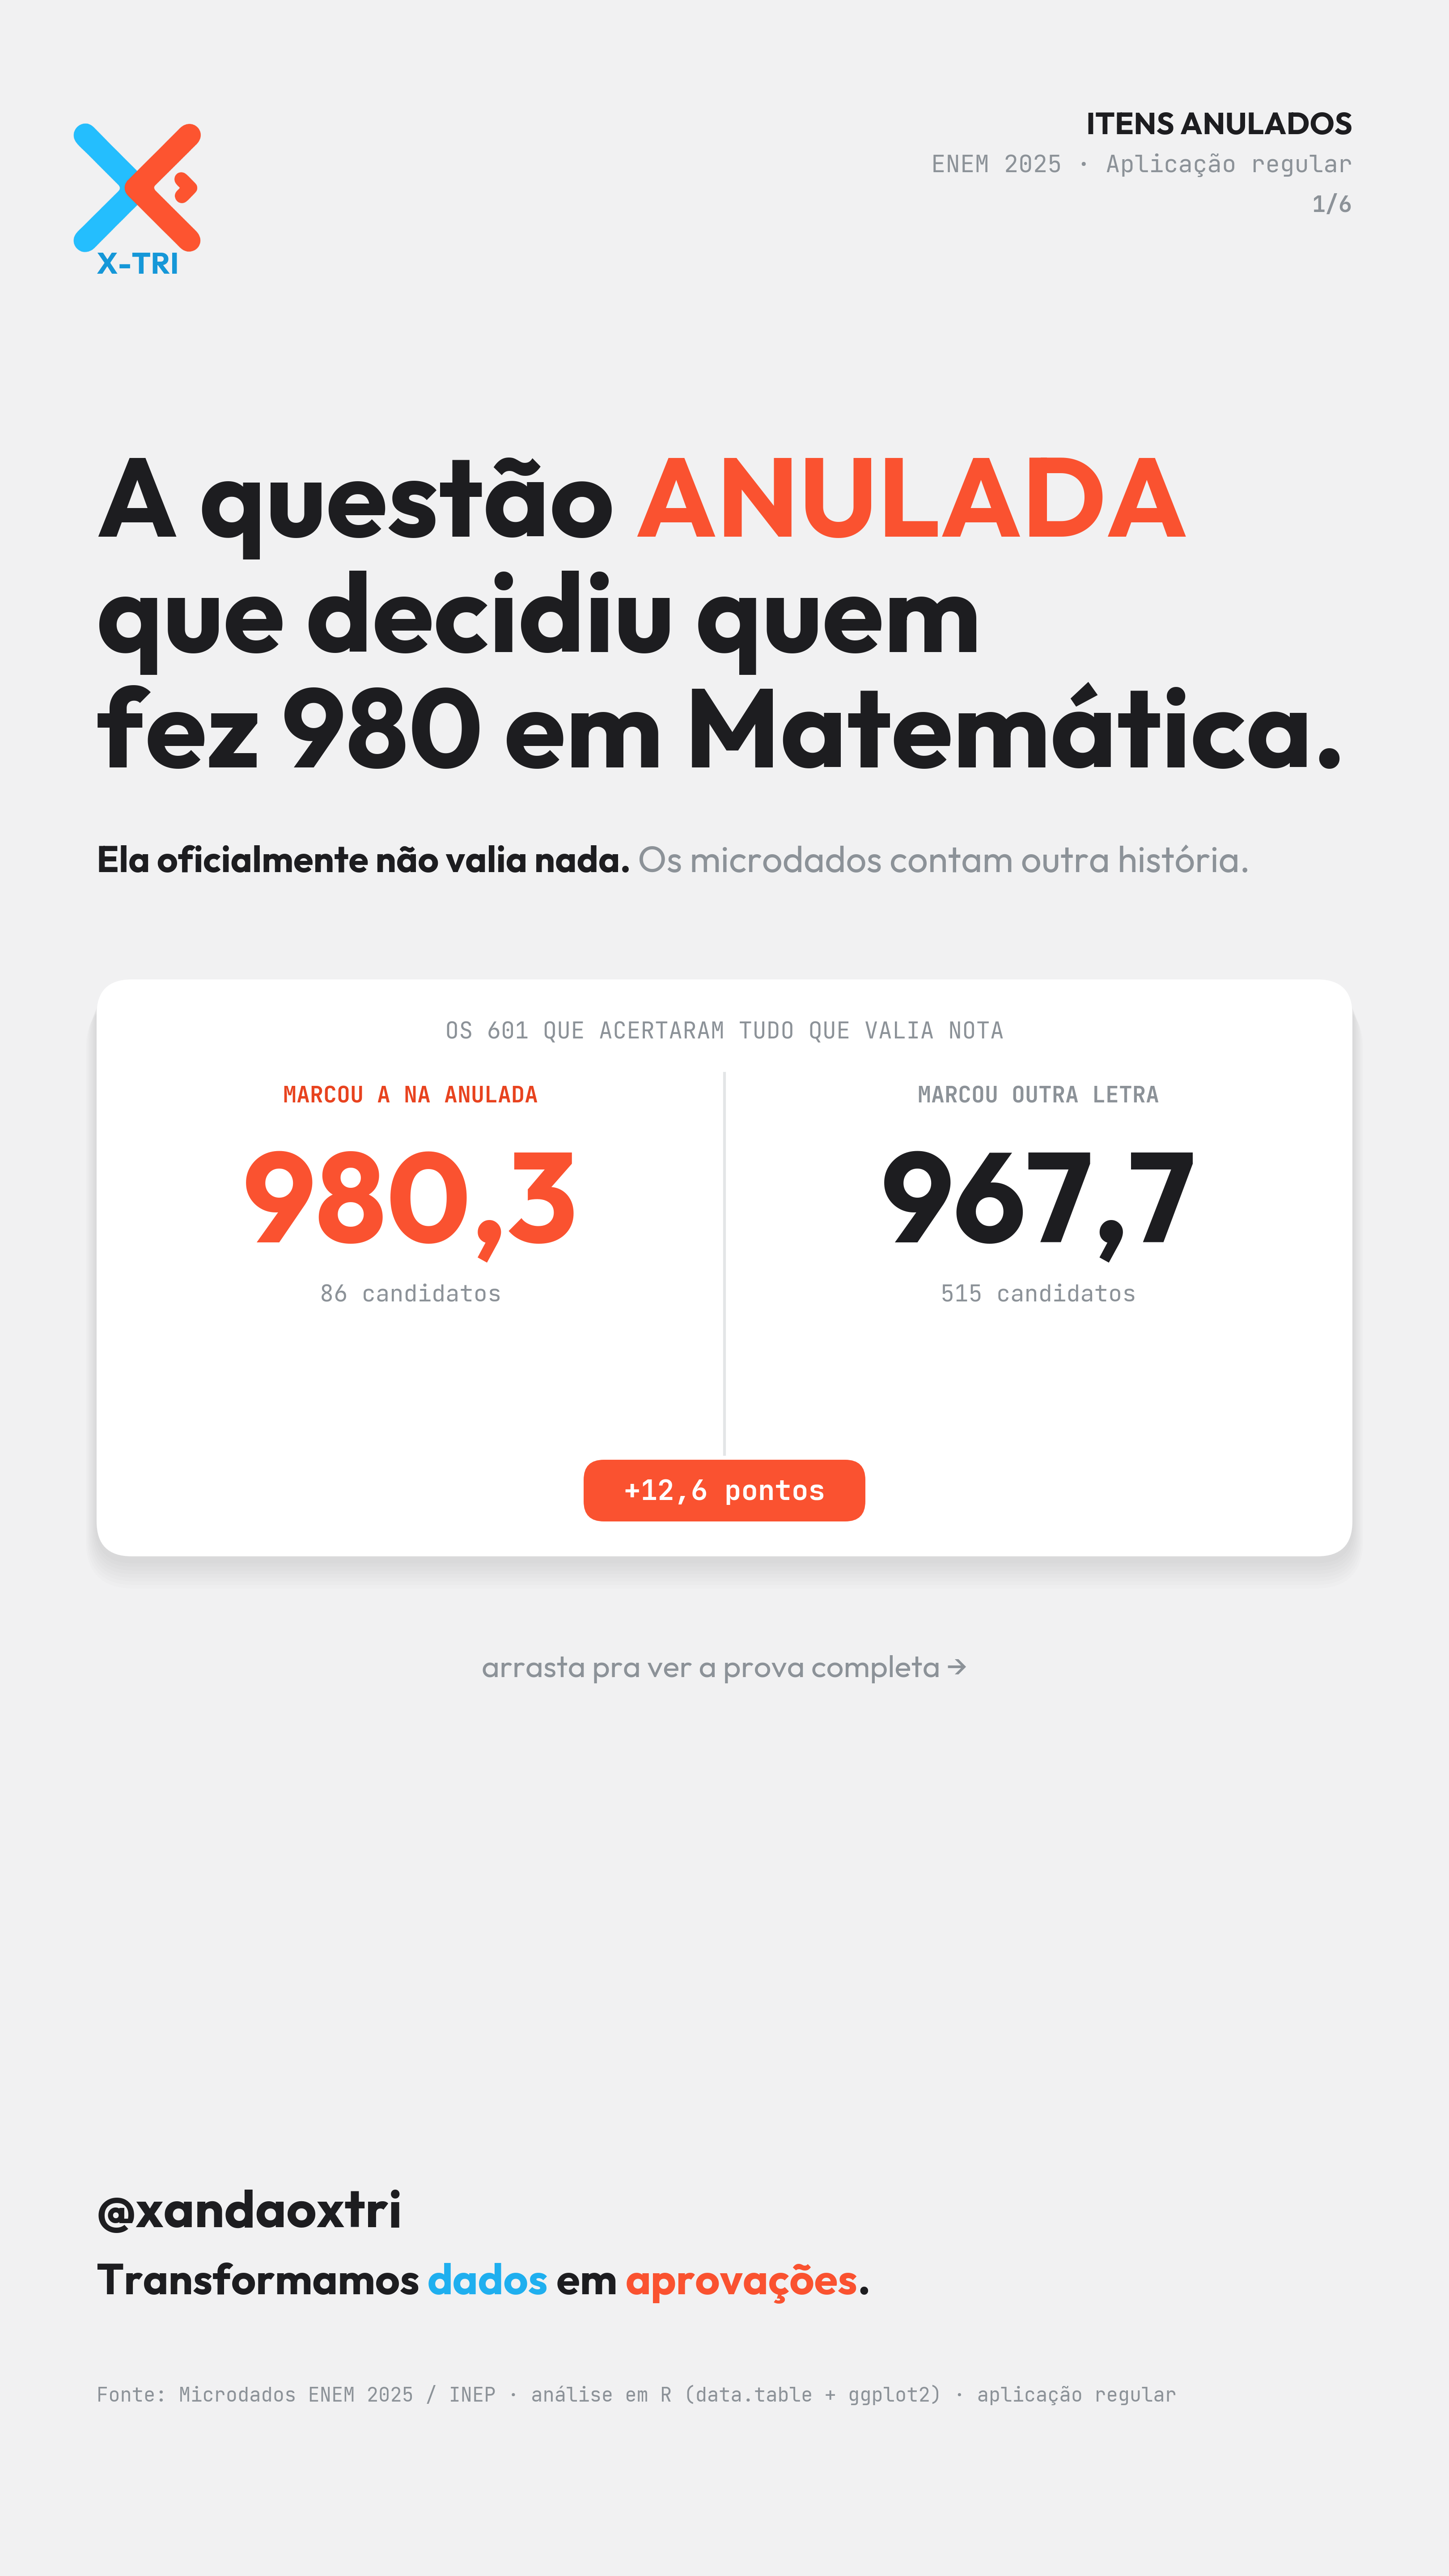
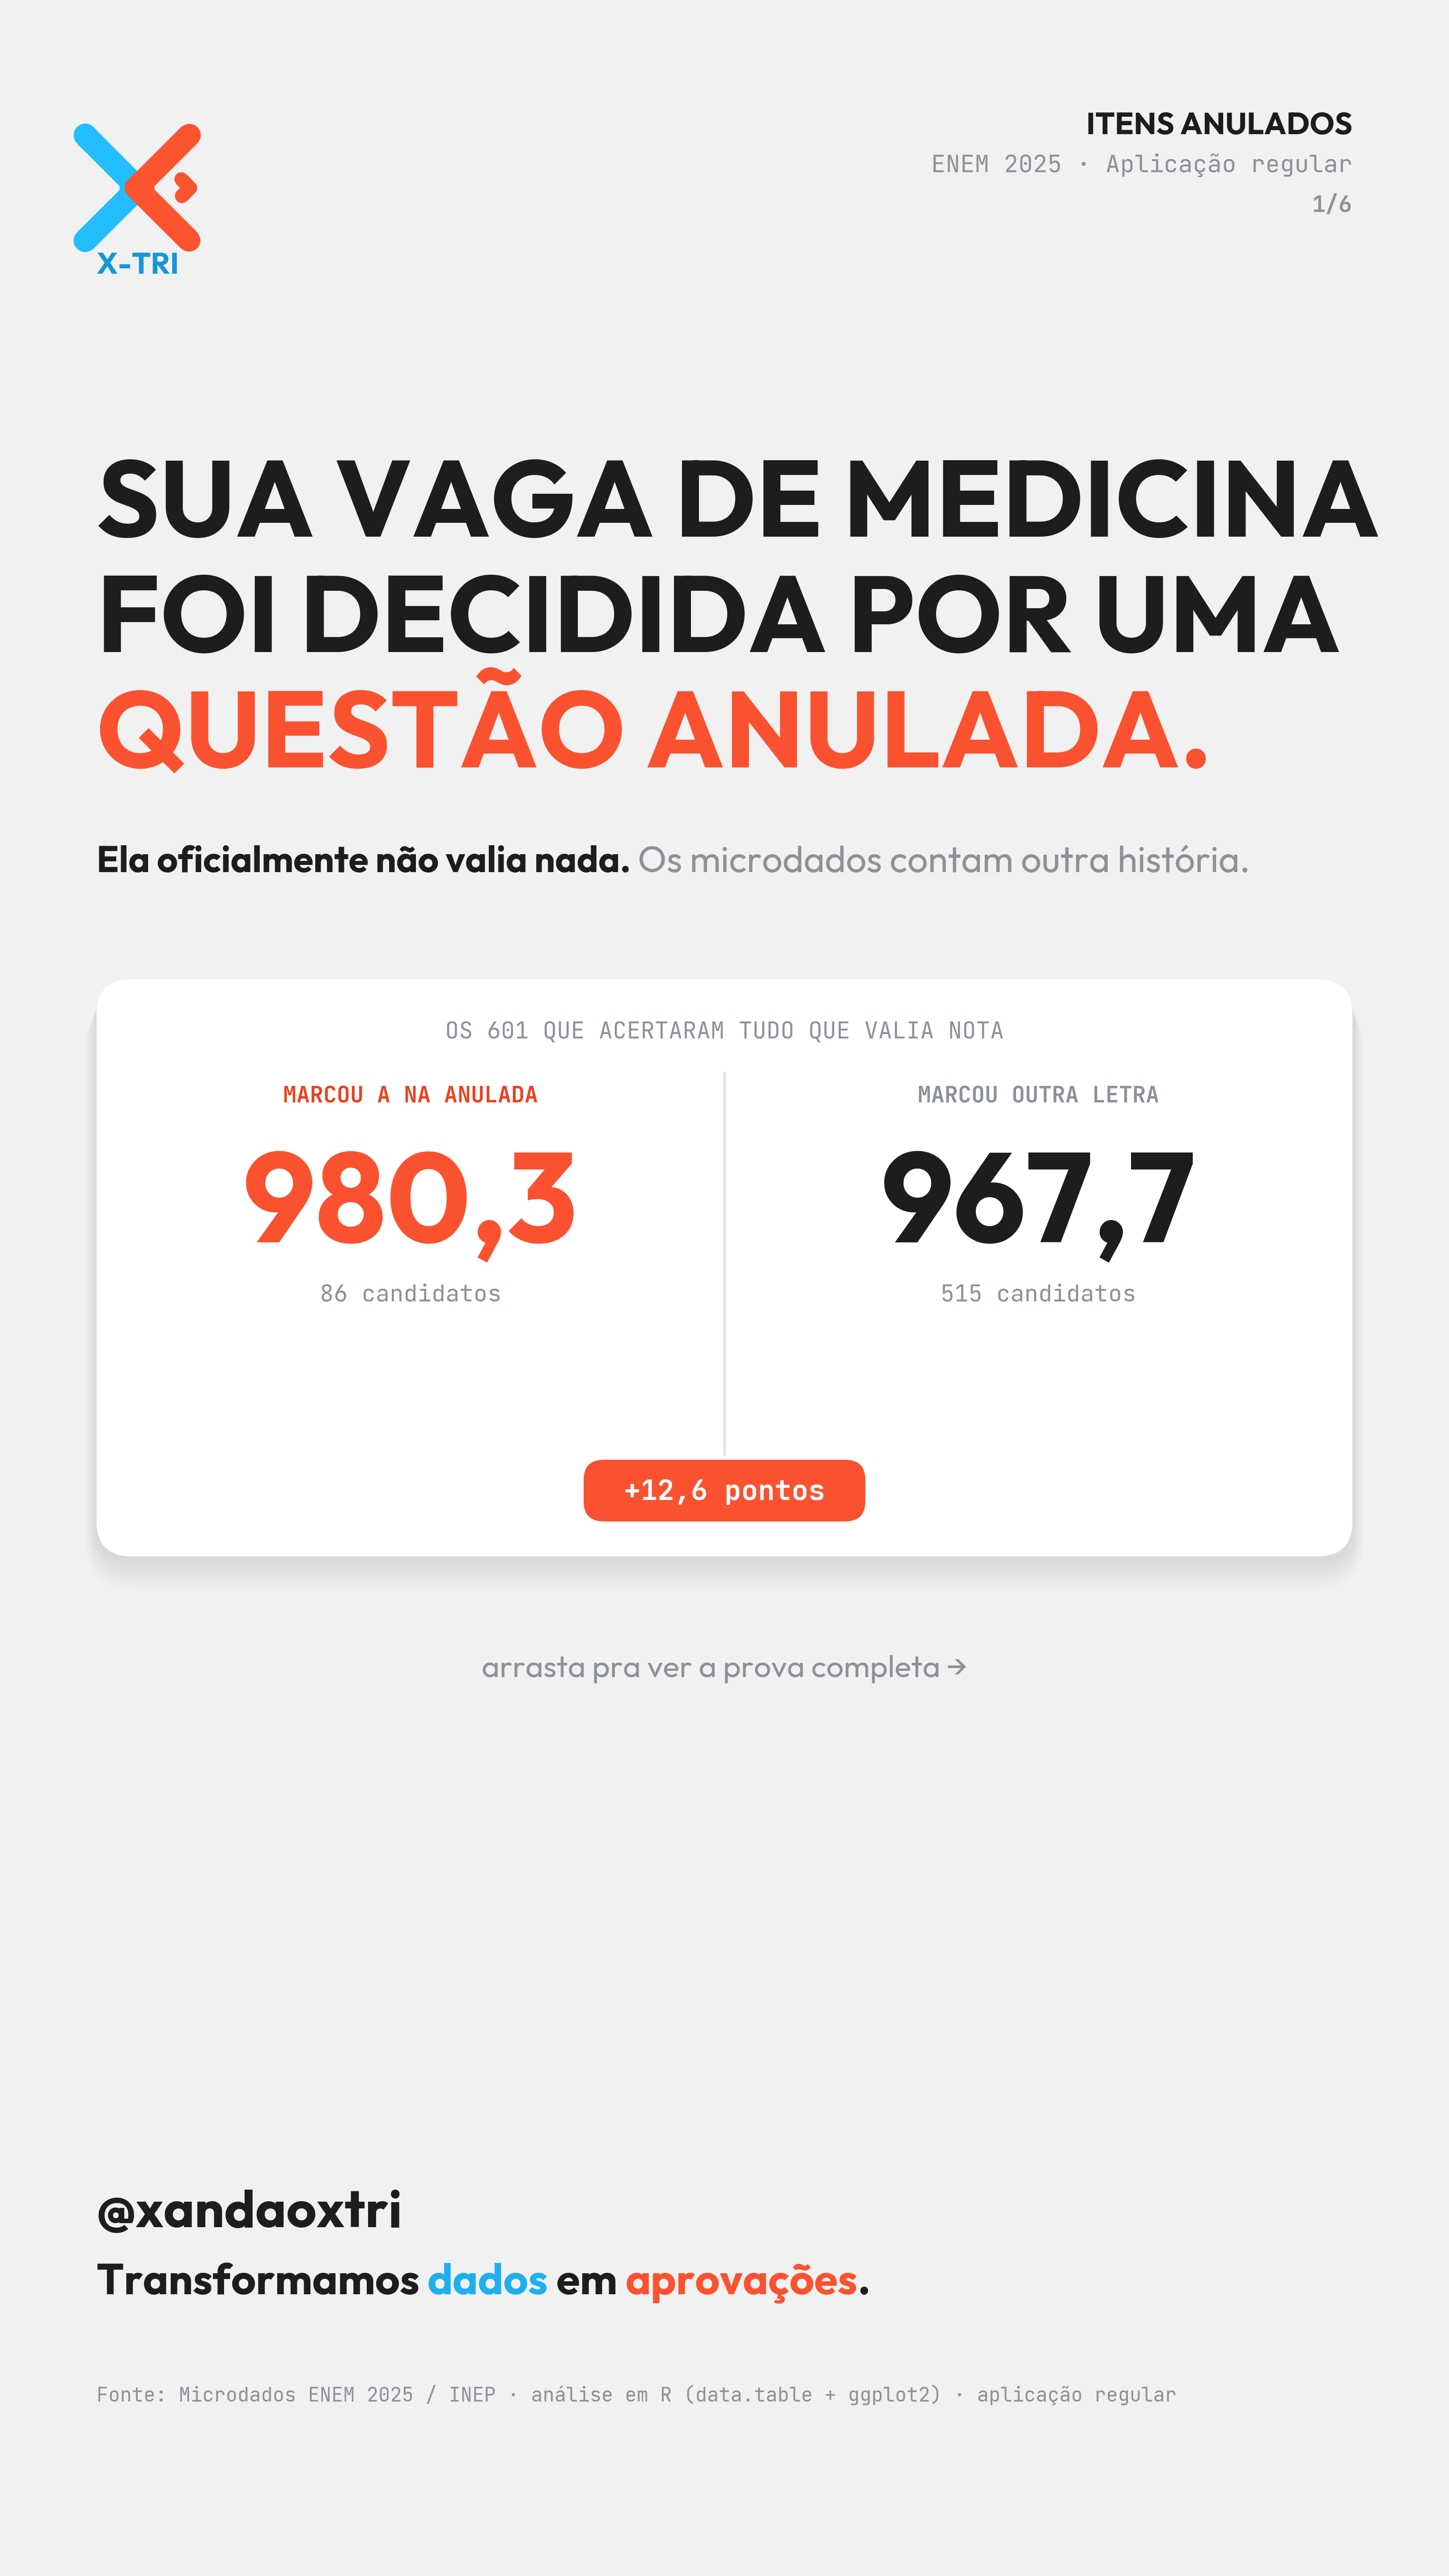
Capa do carrossel IG (feed+story) com a nova chamada: SUA VAGA DE MEDICINA FOI DECIDIDA POR UMA QUESTAO ANULADA

Changed region(s): [[0.0623, 0.1562, 0.9664, 0.3125]]

diff --git a/posts_taticos/07_questao_anulada_teto/build_carrossel.py b/posts_taticos/07_questao_anulada_teto/build_carrossel.py
@@ -110,20 +110,20 @@ def hero_duplo(s, y, h, label_topo):
 def slide1(fmt):
     if fmt == "feed":
         s = Slide(1350)
-        hy, hsz, suby = [252, 326, 400], 54, 462
+        hy, hsz, suby = [252, 326, 400], 52, 462
         heroy, heroh, cuey = 528, 350, 946
         foot = dict(handle_y=1170, sig_y=1214, nota_y=1284)
     else:
         s = Slide(1920)
         s.header("1/6", logoy=140, logoz=0.135, wmy=204)
-        hy, hsz, suby = [400, 486, 572], 60, 650
+        hy, hsz, suby = [400, 486, 572], 58, 650
         heroy, heroh, cuey = 730, 430, 1250
         foot = dict(handle_y=1660, sig_y=1710, nota_y=1790)
     if fmt == "feed":
         s.header("1/6")
-    s.mix(M, hy[0], [("A questão ", INK), ("ANULADA", CORAL)], hsz)
-    s.txt(M, hy[1], "que decidiu quem", outfitB, hsz, INK)
-    s.txt(M, hy[2], "fez 980 em Matemática.", outfitB, hsz, INK)
+    s.txt(M, hy[0], "SUA VAGA DE MEDICINA", outfitB, hsz, INK)
+    s.txt(M, hy[1], "FOI DECIDIDA POR UMA", outfitB, hsz, INK)
+    s.txt(M, hy[2], "QUESTÃO ANULADA.", outfitB, hsz, CORAL)
     s.mix(M, suby, [("Ela oficialmente não valia nada. ", INK)], 19.5)
     s.txt(M + s.tw("Ela oficialmente não valia nada. ", outfitB, 19.5), suby,
           "Os microdados contam outra história.", outfit, 19.5, GRAY)